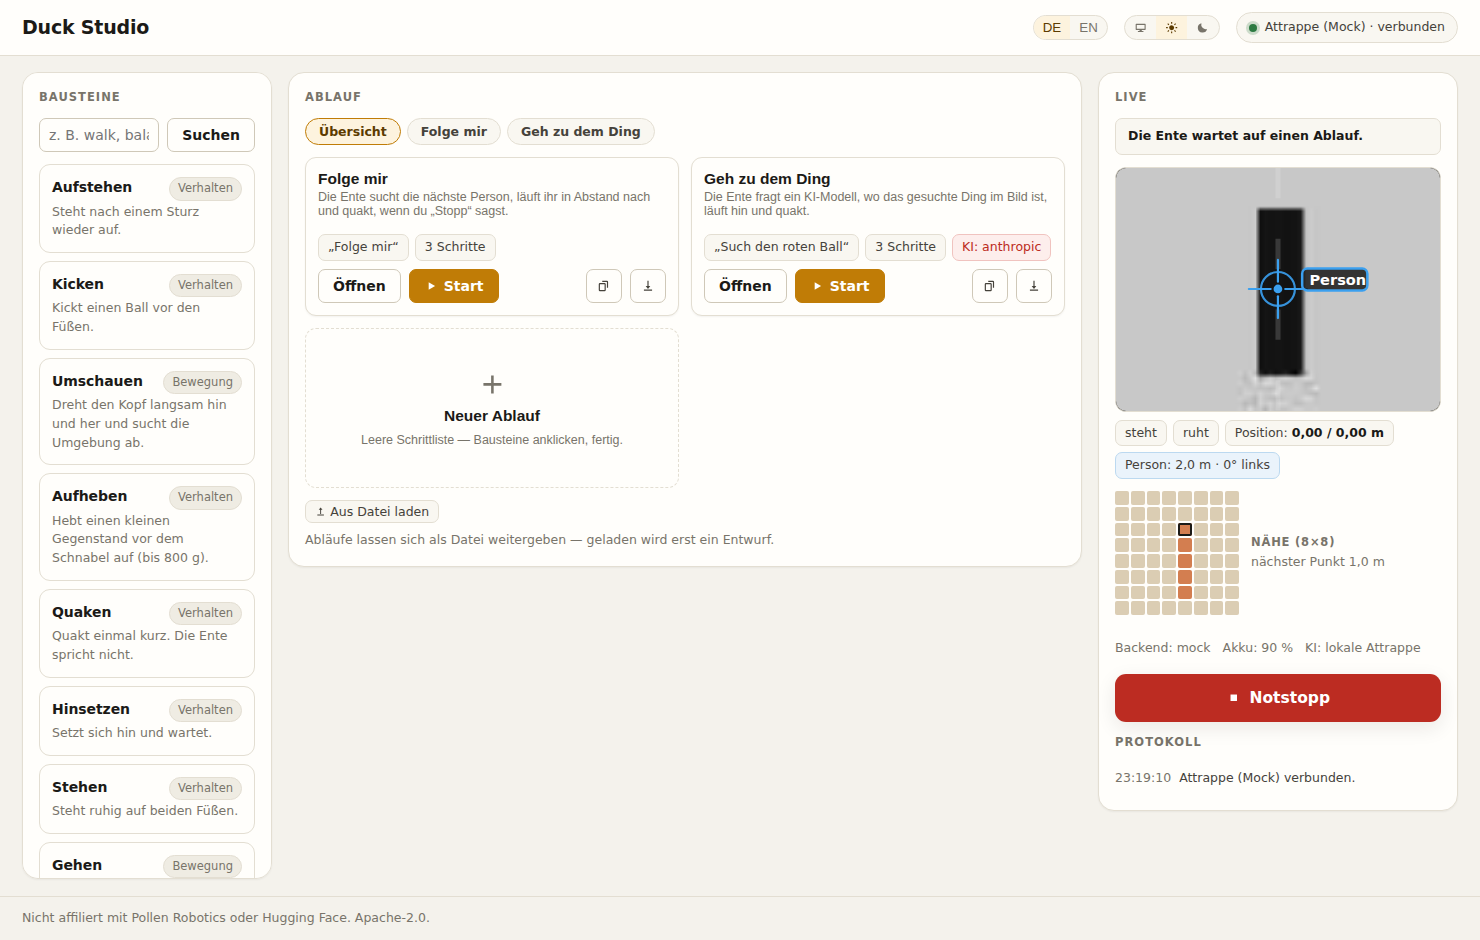
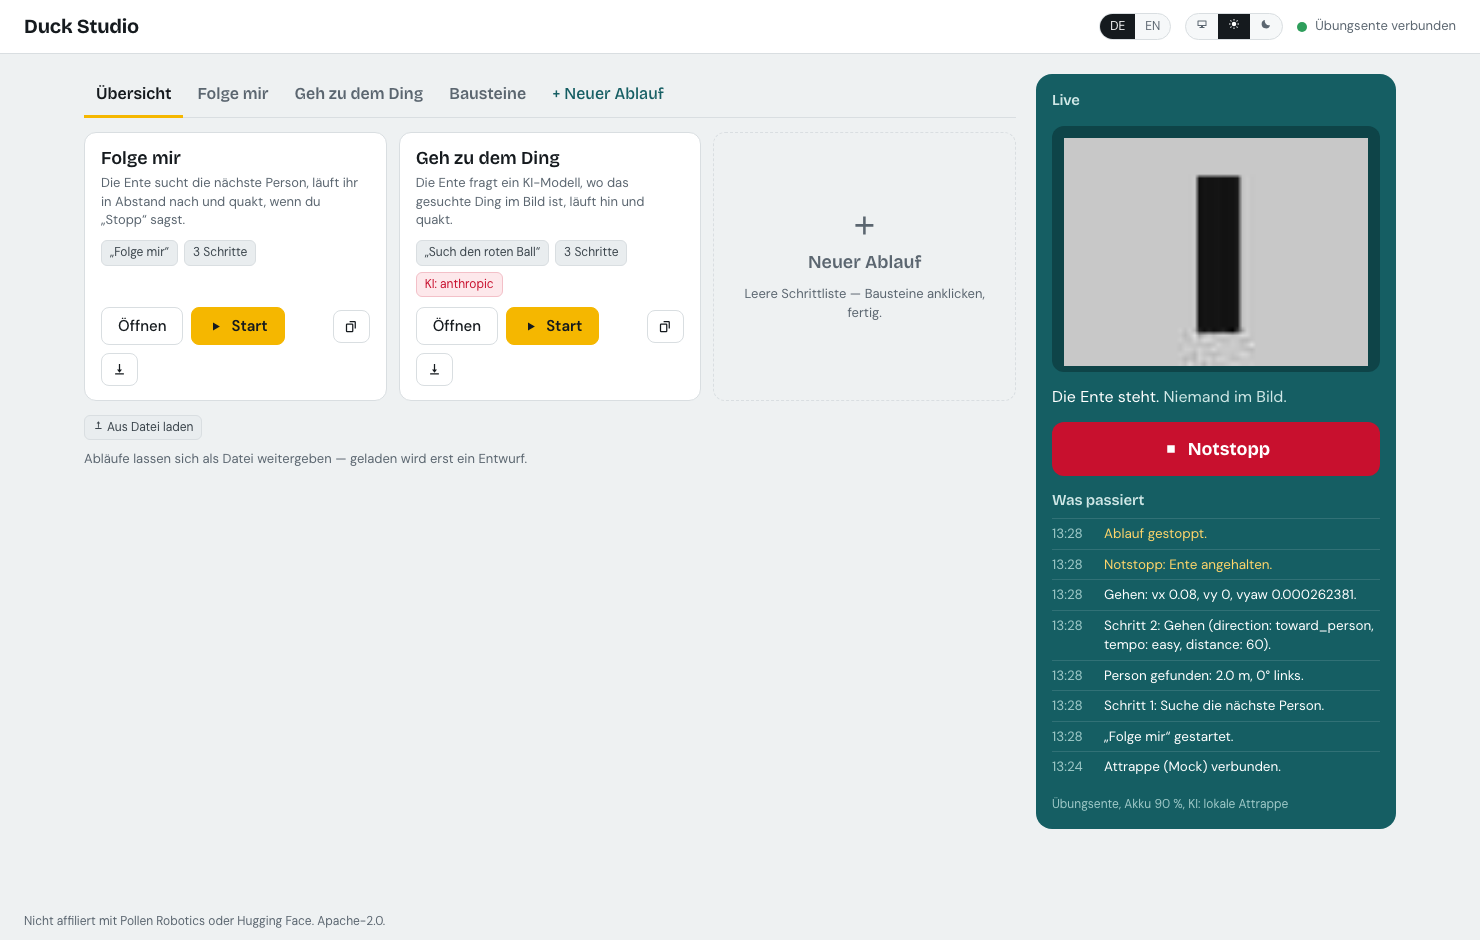
README: screenshots and captions for the route design
The running shot now shows the route with the lit station instead of the overview.

diff --git a/README.md b/README.md
@@ -12,21 +12,22 @@ keep building with Claude Code.
 
 ## What it looks like
 
-The overview: every behavior as a card you can read, open, start, copy or save to a file.
-Building blocks on the left, the duck on the right — camera, state, log and Notstopp.
+Two panes. On the left the route: the overview with every behavior as a card you can read,
+open, start, copy or save to a file, then each behavior as one vertical rail of stations. On
+the right the stage: what the duck sees and does, and the Notstopp.
 
-![The Duck Studio overview: behavior cards in the middle, skill blocks on the left, the live panel with camera and emergency stop on the right](docs/images/overview.png)
+![The Duck Studio overview: behavior cards on the left, the live stage with camera, state and emergency stop on the right](docs/images/overview.png)
 
-The editor renders a behavior pack as a step list. Every control on a card comes from the
-skill manifest's `ui`, so nothing in the editor knows YAML — and the developer view with the
-YAML sits below, never in front.
+Editing happens on the same cards: "Bearbeiten" turns their controls on. Every control comes
+from the skill manifest's `ui`, so nothing in the editor knows YAML — the file view sits
+below, never in front. Building blocks appear when you add a step, and have their own tab.
 
-![The editor: name, trigger, and the steps of follow-me as cards with their own controls](docs/images/editor.png)
+![Editing follow-me: name and trigger, then the steps as stations on the rail with their own controls](docs/images/editor.png)
 
-Running, in dark mode: the active step is marked, the log speaks in sentences, and the
-Notstopp stays within reach.
+Running, in dark mode: the active station glows, finished ones get a tick, the log speaks in
+sentences, and the Notstopp stays within reach.
 
-![Follow-me running: step 2 of 3 highlighted, the log showing what the duck is doing](docs/images/running.png)
+![Follow-me running: station 2 of 3 lit on the rail, the log showing what the duck is doing](docs/images/running.png)
 
 The screenshots come from a real Studio against a real runtime — regenerate them with
 `node scripts/screenshots.mjs`.
